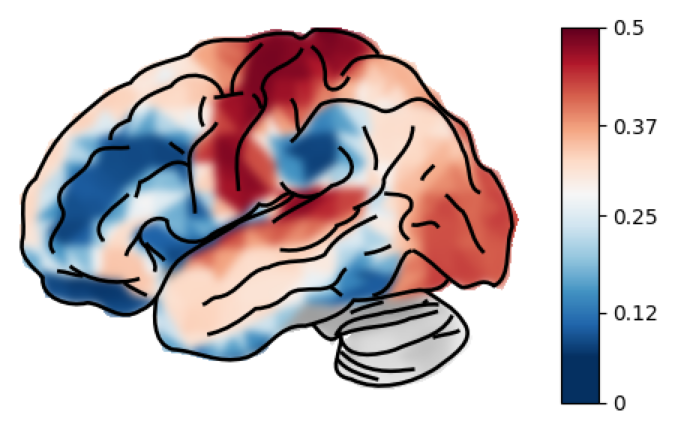
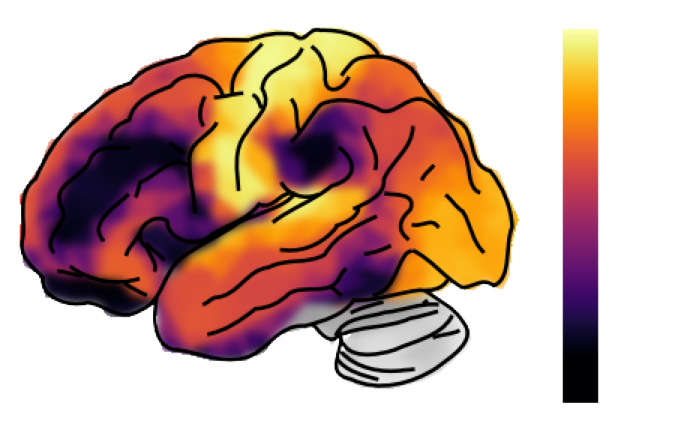
Polish website: transparent inferno brain maps, model glossary, playable grid game, worst-to-best ordering, axis padding, balanced boxes

diff --git a/website/game.js b/website/game.js
@@ -1,0 +1,82 @@
+// Playable version of the exact grid game the VLM played. Boards are the real
+// (player, goal) layouts the model faced (GridGameEnv size=6, seeds 11/500/501/502),
+// so you navigate the identical game. Rendering matches the Python env.
+(function () {
+  const SIZE = 6, CELL = 64, PAD = 6;
+  const BG = '#ebebeb', GRID = '#c8c8c8', PLAYER = '#285adc', GOAL = '#28be46';
+  // [player[r,c], goal[r,c], label]
+  const BOARDS = [
+    { player: [3, 3], goal: [5, 2], label: 'the rollout shown above (seed 11)' },
+    { player: [0, 0], goal: [0, 4], label: 'eval board #1 (seed 500)' },
+    { player: [1, 3], goal: [2, 0], label: 'eval board #2 (seed 501)' },
+    { player: [5, 3], goal: [1, 3], label: 'eval board #3 (seed 502)' },
+  ];
+  let bi = 0, player, goal, moves, optimal, solved;
+
+  const canvas = document.getElementById('game-canvas');
+  if (!canvas) return;
+  const ctx = canvas.getContext('2d');
+  const status = document.getElementById('game-status');
+
+  function manhattan(a, b) { return Math.abs(a[0] - b[0]) + Math.abs(a[1] - b[1]); }
+
+  function load(i) {
+    const b = BOARDS[i];
+    player = b.player.slice(); goal = b.goal.slice();
+    moves = 0; solved = false; optimal = manhattan(player, goal);
+    draw();
+    setStatus(`Board: ${b.label}. Get the blue player to the green goal. Optimal = ${optimal} moves. Use arrow keys or the buttons.`);
+  }
+
+  function fillCell(r, c, color) {
+    ctx.fillStyle = color;
+    ctx.fillRect(c * CELL + PAD, r * CELL + PAD, CELL - 2 * PAD, CELL - 2 * PAD);
+  }
+
+  function draw() {
+    ctx.fillStyle = BG;
+    ctx.fillRect(0, 0, canvas.width, canvas.height);
+    ctx.strokeStyle = GRID; ctx.lineWidth = 1;
+    for (let i = 0; i <= SIZE; i++) {
+      ctx.beginPath(); ctx.moveTo(i * CELL, 0); ctx.lineTo(i * CELL, SIZE * CELL); ctx.stroke();
+      ctx.beginPath(); ctx.moveTo(0, i * CELL); ctx.lineTo(SIZE * CELL, i * CELL); ctx.stroke();
+    }
+    fillCell(goal[0], goal[1], GOAL);
+    fillCell(player[0], player[1], PLAYER);
+  }
+
+  function setStatus(t) { if (status) status.textContent = t; }
+
+  function move(dr, dc) {
+    if (solved) return;
+    const nr = player[0] + dr, nc = player[1] + dc;
+    if (nr < 0 || nr >= SIZE || nc < 0 || nc >= SIZE) return;
+    player = [nr, nc]; moves++;
+    draw();
+    if (player[0] === goal[0] && player[1] === goal[1]) {
+      solved = true;
+      const eff = (optimal / moves);
+      setStatus(`Solved in ${moves} moves (optimal ${optimal}, efficiency ${eff.toFixed(2)}). ` +
+        `For reference: the oracle always plays optimally; Qwen-VL-3B scored 0.0 on boards like this, 7B 0.13.`);
+    } else {
+      setStatus(`${moves} moves · ${manhattan(player, goal)} to go (optimal was ${optimal}).`);
+    }
+  }
+
+  const DIRS = { up: [-1, 0], down: [1, 0], left: [0, -1], right: [0, 1] };
+  document.querySelectorAll('[data-dir]').forEach(btn =>
+    btn.addEventListener('click', () => { const d = DIRS[btn.dataset.dir]; move(d[0], d[1]); }));
+  const nb = document.getElementById('game-new');
+  if (nb) nb.addEventListener('click', () => { bi = (bi + 1) % BOARDS.length; load(bi); });
+
+  // arrow keys (only when the canvas region is in view / focused-ish)
+  window.addEventListener('keydown', (e) => {
+    const map = { ArrowUp: 'up', ArrowDown: 'down', ArrowLeft: 'left', ArrowRight: 'right' };
+    if (map[e.key]) {
+      const rect = canvas.getBoundingClientRect();
+      if (rect.top < window.innerHeight && rect.bottom > 0) { e.preventDefault(); const d = DIRS[map[e.key]]; move(d[0], d[1]); }
+    }
+  });
+
+  load(0);
+})();

diff --git a/website/data.js b/website/data.js
@@ -107,6 +107,22 @@ window.BSU_DATA = {
     "units_per_layer": 1024,
     "reading": "A CompositeSelector gathers a functional population spanning depth into one region; the readout draws most from the middle-late layers."
   },
+  "models_glossary": {
+    "title": "The models, at a glance",
+    "subtitle": "What each model used across this site is, and what it's built for",
+    "models": [
+      {"name": "CLIP ViT-B/32", "kind": "vision–language · contrastive", "desc": "A small image encoder trained to match images with their text captions. Strong, fast general visual features — the lightweight baseline."},
+      {"name": "BLIP-2 OPT-2.7B", "kind": "vision–language · captioning", "desc": "A large ViT-G encoder + Q-Former feeding a 2.7B OPT language decoder, trained for image captioning — not instruction-following."},
+      {"name": "Qwen2.5-VL (3B/7B/32B)", "kind": "instruction-tuned VLM", "desc": "A vision encoder fused into an instruction-tuned language model. Answers questions about images; the strongest reader here, and the one that induces dyslexia at 32B."},
+      {"name": "GPT-2 (124M)", "kind": "text language model", "desc": "A small text-only causal LM. No vision — it reads word strings, and matches humans on lexical decision from strings alone."},
+      {"name": "V-JEPA / V-JEPA2 ViT-L", "kind": "self-supervised video", "desc": "Video models trained by predicting masked latent representations (not pixels). The best video→brain encoders we test."},
+      {"name": "VideoMAE base", "kind": "self-supervised video", "desc": "A video masked-autoencoder trained to reconstruct pixels. Native-temporal, but the pixel objective transfers less well to brain prediction."},
+      {"name": "Wav2Vec2 · MiniLM", "kind": "audio · sentence encoders", "desc": "The speech-audio tower and the sentence-embedding text tower used in the multimodal Algonauts setup."},
+      {"name": "random-ViT", "kind": "null control", "desc": "CLIP's architecture with random weights. The floor for what a logistic readout can overfit from random features (~0.54 on ROAR)."},
+      {"name": "chance", "kind": "null control", "desc": "Returns uniform probabilities regardless of input — the absolute floor (0.50 on a balanced binary task)."},
+      {"name": "oracle", "kind": "upper reference (grid game)", "desc": "A privileged policy that always steps toward the goal — the optimal player, defining the ceiling for the embodied game."}
+    ]
+  },
   "embodied_game": {
     "title": "A VLM plays a video game",
     "subtitle": "Closed-loop process(EnvironmentStep) — the model sees a rendered frame, picks a move, the environment responds, repeat",
@@ -134,7 +150,7 @@ window.BSU_DATA = {
     "chance": 0.5,
     "null_floor": 0.54,
     "pathColors": {"readout": "#3b7dd8", "generation": "#e0a13b", "instr-readout": "#7c5bff"},
-    "models": ["CLIP", "BLIP-2", "Qwen", "GPT-2", "random-ViT", "chance"],
+    "models": ["chance", "random-ViT", "CLIP", "GPT-2", "BLIP-2", "Qwen"],
     "rows": [
       {"model": "CLIP", "input": "image", "path": "readout", "score": 0.680},
       {"model": "BLIP-2", "input": "image", "path": "readout", "score": 0.790},

diff --git a/website/app.js b/website/app.js
@@ -124,7 +124,9 @@
     const lay = Object.assign({}, LAYOUT, {
       showlegend: true,
       legend: { orientation: 'h', x: 0, y: 1.12, font: { size: 10 }, bgcolor: 'rgba(0,0,0,0)' },
-      yaxis: Object.assign({}, LAYOUT.yaxis, { title: 'ROAR raw accuracy', range: [0.4, 1.05] }),
+      yaxis: Object.assign({}, LAYOUT.yaxis, { title: 'ROAR raw accuracy', range: [0.42, 1.08] }),
+      xaxis: Object.assign({}, LAYOUT.xaxis, { categoryorder: 'array', categoryarray: ap.models,
+        title: 'model  (worst → best)' }),
       shapes: [
         { type: 'line', x0: -0.5, x1: ap.models.length - 0.5, y0: ap.chance, y1: ap.chance,
           line: { color: '#888', width: 1, dash: 'dot' } },
@@ -181,6 +183,16 @@
   }
   drawScaling(scKeys[0], document.querySelector('#scaling-tabs .tog'));
 
+  // ---- models glossary ----
+  if (D.models_glossary) {
+    const mg = D.models_glossary;
+    $('models-title').textContent = mg.title;
+    $('models-sub').textContent = mg.subtitle;
+    $('model-grid').innerHTML = mg.models.map(x =>
+      `<div class="model-card"><div class="model-kind">${x.kind}</div>`
+      + `<h3>${x.name}</h3><p>${x.desc}</p></div>`).join('');
+  }
+
   // ---- embodied VLM game ----
   if (D.embodied_game) {
     const g = D.embodied_game;
@@ -192,7 +204,7 @@
       hovertemplate: '%{x}: %{y:.2f} success<extra></extra>',
     };
     const lay = Object.assign({}, LAYOUT, {
-      yaxis: Object.assign({}, LAYOUT.yaxis, { title: 'success rate', range: [0, 1.05] }),
+      yaxis: Object.assign({}, LAYOUT.yaxis, { title: 'success rate', range: [0, 1.08] }),
       shapes: [{ type: 'line', x0: -0.5, x1: g.models.length - 0.5, y0: g.null_floor, y1: g.null_floor,
         line: { color: '#888', width: 1, dash: 'dot' } }],
       annotations: [{ x: g.models.length - 1, y: g.null_floor, yanchor: 'bottom', xanchor: 'right',
@@ -221,9 +233,9 @@
     const lay = Object.assign({}, LAYOUT, {
       showlegend: true,
       legend: { x: 0.02, y: 0.12, font: { size: 10 }, bgcolor: 'rgba(0,0,0,0)' },
-      yaxis: Object.assign({}, LAYOUT.yaxis, { title: 'ROAR accuracy', range: [0.4, 1.0] }),
+      yaxis: Object.assign({}, LAYOUT.yaxis, { title: 'ROAR accuracy', range: [0.45, 1.05] }),
       xaxis: Object.assign({}, LAYOUT.xaxis, { title: 'units ablated (% of MLP gate_proj)',
-        range: [-1, Math.max(...a.mask_pct) + 2], autorange: false }),
+        range: [-1.5, Math.max(...a.mask_pct) + 2.5], autorange: false }),
       shapes: [{ type: 'line', x0: -1, x1: Math.max(...a.mask_pct) + 2, y0: a.threshold, y1: a.threshold,
         line: { color: '#e0a13b', width: 1.5, dash: 'dash' } }],
       annotations: [{ x: Math.max(...a.mask_pct), y: a.threshold, yanchor: 'bottom', xanchor: 'right',

diff --git a/website/style.css b/website/style.css
@@ -88,6 +88,10 @@ figcaption{color:var(--muted); font-size:.82rem; margin-top:8px}
 .two-col{display:grid; grid-template-columns:1.4fr 1fr; gap:24px; align-items:stretch}
 @media(max-width:760px){.two-col{grid-template-columns:1fr}}
 .two-col-stack{display:flex; flex-direction:column; gap:16px}
+/* center a plot vertically when its sibling reading box is taller, so the two
+   columns read as balanced rather than top-aligned with a gap below */
+.two-col > .plot{align-self:center}
+.two-col > .paths-table{align-self:start}
 .reading-box{background:var(--panel); border:1px solid var(--line); border-radius:var(--radius);
   padding:22px; display:flex; flex-direction:column; justify-content:flex-start}
 .reading-box h3{margin:0 0 10px}
@@ -119,6 +123,28 @@ figcaption{color:var(--muted); font-size:.82rem; margin-top:8px}
 .paths-table th{color:var(--accent); font-size:.72rem; text-transform:uppercase; letter-spacing:.05em}
 .paths-table td:first-child{font-weight:600}
 .path-chip{display:inline-block; padding:2px 8px; border-radius:999px; color:#fff; font-size:.74rem}
+
+/* models glossary */
+.model-grid{display:grid; grid-template-columns:repeat(auto-fill,minmax(280px,1fr)); gap:14px}
+.model-card{background:var(--panel); border:1px solid var(--line); border-radius:var(--radius); padding:16px 18px}
+.model-card .model-kind{font-size:.72rem; text-transform:uppercase; letter-spacing:.06em; color:var(--accent)}
+.model-card h3{margin:6px 0 6px; font-size:1.02rem}
+.model-card p{color:var(--muted); font-size:.9rem; margin:0}
+
+/* playable game */
+.play-panel{background:var(--panel); border:1px solid var(--line); border-radius:var(--radius);
+  padding:22px; margin:0 0 24px}
+.play-panel h3{margin:0 0 14px}
+.play-wrap{display:flex; gap:24px; align-items:flex-start; flex-wrap:wrap}
+#game-canvas{border:1px solid var(--line); border-radius:8px; background:#ebebeb}
+.play-side{flex:1; min-width:220px}
+.play-pad{display:flex; flex-direction:column; align-items:center; gap:8px; margin-bottom:14px}
+.play-pad-row{display:flex; gap:8px}
+.play-pad button,.play-new{cursor:pointer; background:var(--panel2); border:1px solid var(--line);
+  color:var(--ink); border-radius:8px; font-size:1.1rem; width:52px; height:52px; transition:.12s}
+.play-pad button:hover{background:var(--accent); color:#fff; border-color:transparent}
+.play-new{width:auto; height:auto; padding:8px 16px; font-size:.9rem}
+.play-new:hover{background:var(--accent); color:#fff}
 
 /* game figure */
 .game-fig{background:var(--panel); border:1px solid var(--line); border-radius:var(--radius);

diff --git a/website/index.html b/website/index.html
@@ -46,7 +46,13 @@ score = load_benchmark(<span class="s">"MajajHong2015public.IT-pls"</span>)(mode
   <div class="cap-grid" id="cap-grid"></div>
 </section>
 
-<section id="response" class="section alt">
+<section id="models" class="section alt">
+  <h2 id="models-title"></h2>
+  <p class="lead" id="models-sub"></p>
+  <div class="model-grid" id="model-grid"></div>
+</section>
+
+<section id="response" class="section">
   <h2>Stimulus in → brain response out</h2>
   <p class="lead">Pick an input type. The model's predicted responses map onto the
     cortex — the same figure style as a published encoding model.</p>
@@ -121,6 +127,24 @@ score = load_benchmark(<span class="s">"MajajHong2015public.IT-pls"</span>)(mode
     <img src="assets/game_rollout.png" alt="VLM grid-game rollout" />
     <figcaption>One closed-loop rollout: the model sees each rendered frame and outputs a move (up/down/left/right) via <code>process(EnvironmentStep)</code>; the environment steps and returns the next frame.</figcaption>
   </figure>
+  <div class="play-panel">
+    <h3>Play the same board the model played</h3>
+    <div class="play-wrap">
+      <canvas id="game-canvas" width="384" height="384"></canvas>
+      <div class="play-side">
+        <div class="play-pad">
+          <button data-dir="up" aria-label="up">↑</button>
+          <div class="play-pad-row">
+            <button data-dir="left" aria-label="left">←</button>
+            <button data-dir="down" aria-label="down">↓</button>
+            <button data-dir="right" aria-label="right">→</button>
+          </div>
+        </div>
+        <button id="game-new" class="play-new">New board ↻</button>
+        <p class="muted small" id="game-status"></p>
+      </div>
+    </div>
+  </div>
   <div class="two-col">
     <div id="game-plot" class="plot"></div>
     <div class="reading-box">
@@ -220,5 +244,6 @@ score = load_benchmark(<span class="s">"MajajHong2015public.IT-pls"</span>)(mode
 
 <script src="data.js"></script>
 <script src="app.js"></script>
+<script src="game.js"></script>
 </body>
 </html>

diff --git a/brainscore/visualization/brain_map.py b/brainscore/visualization/brain_map.py
@@ -85,7 +85,7 @@ def parcel_grid_heatmap(values: np.ndarray, *, ncols: int = 40,
     cb.set_label('value', fontsize=9)
     fig.tight_layout()
     if out_png:
-        fig.savefig(out_png, dpi=150, bbox_inches='tight')
+        fig.savefig(out_png, dpi=150, bbox_inches='tight', transparent=True)
         plt.close(fig)
         return out_png
     return fig
@@ -124,7 +124,7 @@ def network_strip(values: np.ndarray, parcel_names: Sequence[str], *,
     ax.spines[['top', 'right']].set_visible(False)
     fig.tight_layout()
     if out_png:
-        fig.savefig(out_png, dpi=150, bbox_inches='tight')
+        fig.savefig(out_png, dpi=150, bbox_inches='tight', transparent=True)
         plt.close(fig)
         return out_png
     return fig
@@ -244,7 +244,7 @@ def cortical_surface_map(parcel_values: np.ndarray, *, n_parcels: int = 1000,
                           cmap=cmap, threshold=threshold, vmin=vmin, vmax=vmax,
                           title=title)
     if out_png:
-        fig.savefig(out_png, dpi=150, bbox_inches='tight')
+        fig.savefig(out_png, dpi=150, bbox_inches='tight', transparent=True)
         plt.close(fig)
         return out_png
     return fig
@@ -280,7 +280,7 @@ def voxel_surface_map(voxel_values: np.ndarray, *, resolution: str = 'fsaverage5
                           cmap=cmap, threshold=threshold, vmin=vmin, vmax=vmax,
                           title=title)
     if out_png:
-        fig.savefig(out_png, dpi=150, bbox_inches='tight')
+        fig.savefig(out_png, dpi=150, bbox_inches='tight', transparent=True)
         plt.close(fig)
         return out_png
     return fig
@@ -343,17 +343,19 @@ def quickbrain_outline_map(parcel_values: np.ndarray, *, n_parcels: int = 1000,
     import matplotlib.pyplot as plt
 
     img = parcels_to_nifti(parcel_values, n_parcels=n_parcels, networks=networks)
+    quickbrain_kwargs.setdefault('cmap', 'inferno')   # sequential for 0+ data
+    quickbrain_kwargs.setdefault('background', 'transparent')  # transparent canvas
     result = quickbrain.plot_brain(img, **quickbrain_kwargs)
     # plot_brain renders to matplotlib; recover the figure whether it returns one
     # or draws on the current figure.
     fig = result if hasattr(result, 'savefig') else plt.gcf()
     if title:
         try:
-            fig.suptitle(title)
+            fig.suptitle(title, color='white')
         except Exception:
             pass
     if out_png:
-        fig.savefig(out_png, dpi=150, bbox_inches='tight')
+        fig.savefig(out_png, dpi=150, bbox_inches='tight', transparent=True)
         plt.close(fig)
         return out_png
     return fig

diff --git a/website/make_vwfa_glass.py b/website/make_vwfa_glass.py
@@ -12,6 +12,10 @@ import os
 
 import numpy as np
 import nibabel as nib
+import matplotlib as mpl
+mpl.rcParams.update({'text.color': 'white', 'axes.labelcolor': 'white',
+                     'xtick.color': 'white', 'ytick.color': 'white'})
+import matplotlib.pyplot as plt
 from nilearn import datasets
 from scipy.ndimage import gaussian_filter
 
@@ -39,17 +43,19 @@ def main():
     blob = nib.Nifti1Image(vol, affine)
 
     out = os.path.join(ASSETS, 'vwfa_glass.png')
-    # VWFA sits on the ventral surface — a ventral view shows it best; fall back
-    # to lateral if this quickbrain build doesn't accept the view.
-    for view in ('ventral', 'lateral'):
-        try:
-            quickbrain.plot_brain(blob, hemi='left', view=view, threshold=0.08,
-                                  colorbar=True, title='ablated VWF population → VWFA',
-                                  output_file=out)
-            print('wrote', out, 'view=', view)
-            return
-        except Exception as e:
-            print('view', view, 'failed:', e)
+    # sequential inferno (data is 0+), transparent canvas + light text for the
+    # dark site. quickbrain only supports lateral/medial views.
+    fig = quickbrain.plot_brain(blob, hemi='left', view='lateral', threshold=0.08,
+                                colorbar=True, cmap='inferno', background='transparent',
+                                title='ablated VWF population → VWFA')
+    f = fig if hasattr(fig, 'savefig') else plt.gcf()
+    try:
+        f.suptitle('ablated VWF population → VWFA', color='white')
+    except Exception:
+        pass
+    f.savefig(out, dpi=150, bbox_inches='tight', transparent=True)
+    plt.close(f)
+    print('wrote', out)
 
 
 if __name__ == '__main__':

diff --git a/website/generate_assets.py b/website/generate_assets.py
@@ -8,6 +8,11 @@ only. Outputs PNGs into ./assets/.
 """
 import os
 import numpy as np
+import matplotlib as mpl
+# Light text + ticks so transparent figures read on the dark website panels.
+mpl.rcParams.update({'text.color': 'white', 'axes.labelcolor': 'white',
+                     'xtick.color': 'white', 'ytick.color': 'white',
+                     'axes.edgecolor': 'white'})
 
 from brainscore.visualization import (cortical_surface_map, quickbrain_outline_map,
                                        fetch_schaefer_fsaverage_annot)
